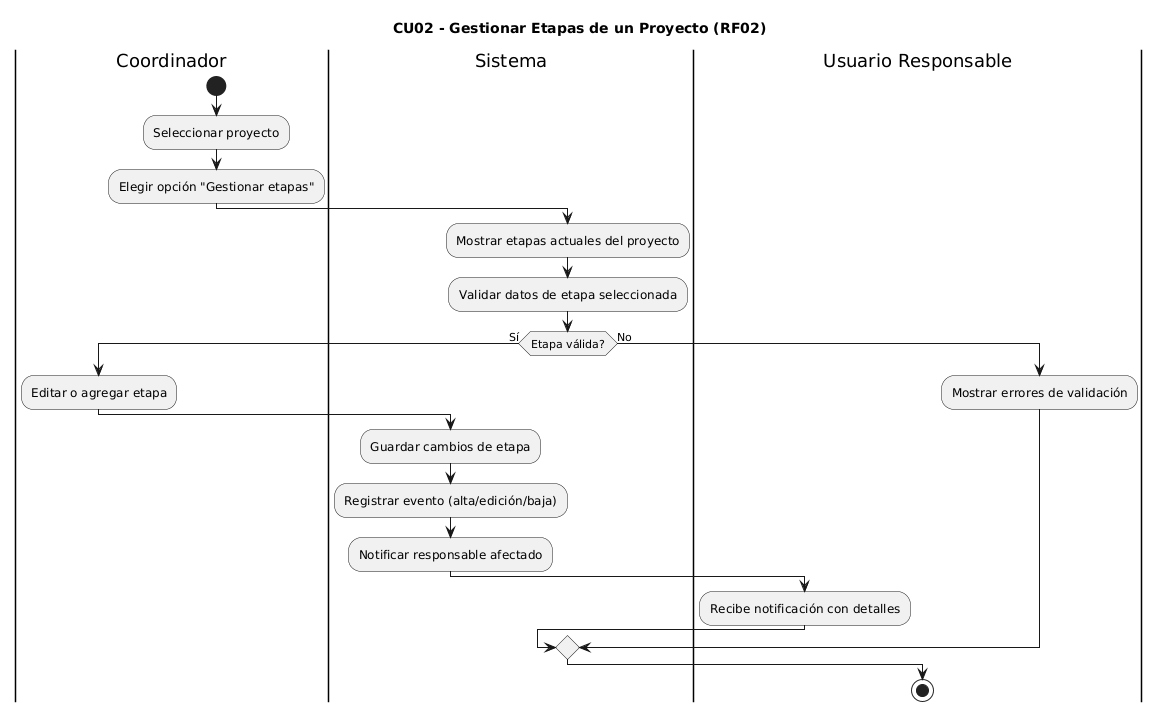
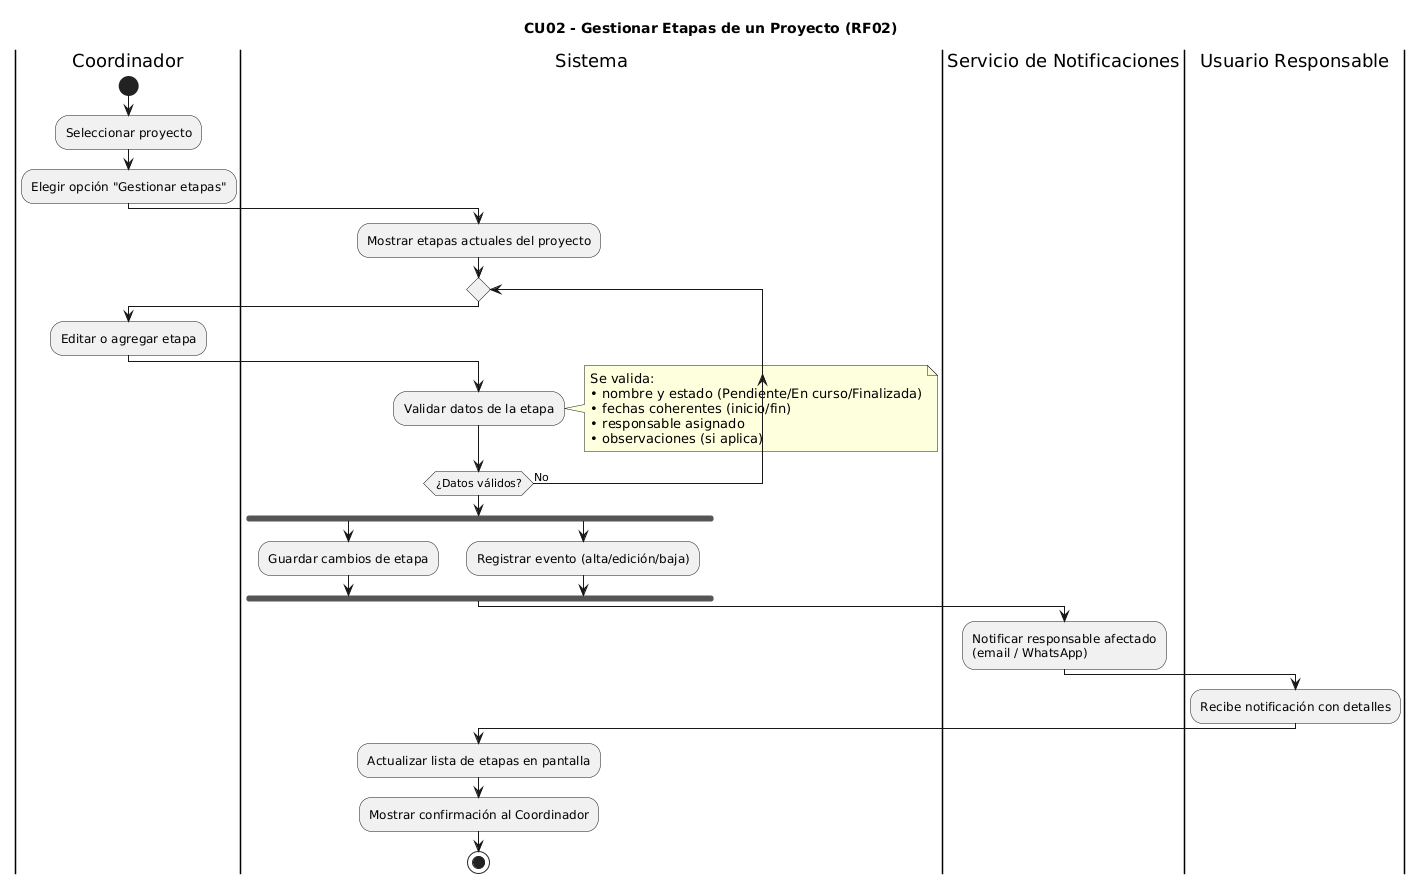
correcciones de requested changes en diag act 2 y changelog update

diff --git a/changelog.md b/changelog.md
@@ -5,6 +5,10 @@ Este archivo se actualiza con cada Pull Request para registrar avances y correcc
 
 ## [Unreleased]
 
+- [release/actividad-obligatoria-3] Correcciones en diagrama de actividades 02. Agregado Servicio de Notificaciones como swimlane, nota aclaratoria en los datos validados, agregado de loop y corrección sobre actividades persistir y registrar. 
+  PR: [#111](https://github.com/dantebiondi666-prog/SistemaProductoraVideos/pull/111) - @dantebiondi666-prog (Documentador y coordinador de repositorio), 
+  Issue: [#113](https://github.com/dantebiondi666-prog/SistemaProductoraVideos/issues/113)
+
 - [release/actividad-obligatoria-3] Correcciones en diagrama de actividades 01. Agregado Servicio de Notificaciones como swimlane, nota aclaratoria en los datos validados, agregado de loop y corrección sobre actividades persistir y registrar. 
   PR: [#111](https://github.com/dantebiondi666-prog/SistemaProductoraVideos/pull/111) - @dantebiondi666-prog (Documentador y coordinador de repositorio), 
   Issue: [#112](https://github.com/dantebiondi666-prog/SistemaProductoraVideos/issues/112)
